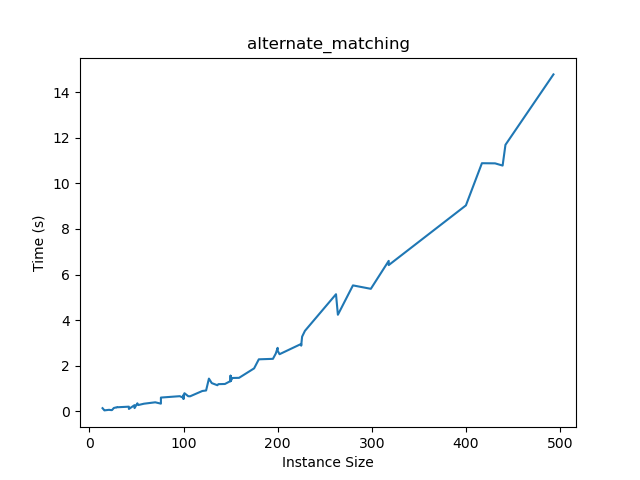
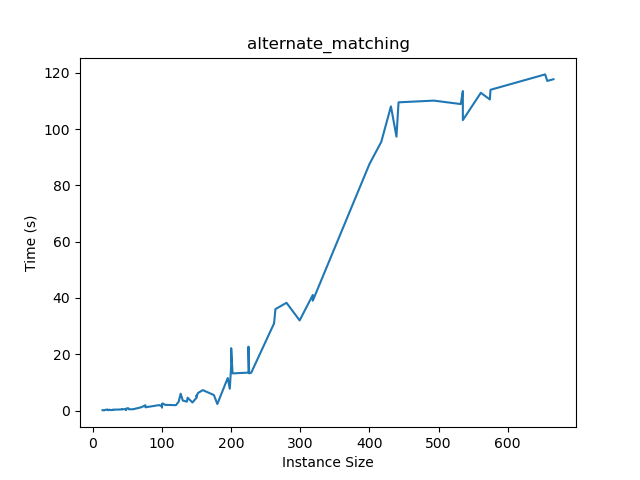
Fixed bugs in matching algo

diff --git a/tsp_solvers.py b/tsp_solvers.py
@@ -5,28 +5,31 @@ from pyomo.environ import *
 from pyomo.environ import *
 import random
 import time
+TMAX = 300
 class Tsp:
     def __init__(self, A):
         self.base = "greedy"  # "random" or "greedy"
         self.numHeuristics = 2 # 1 or 2
-
+        self.sol = []
+        self.cost = 0
         self.adj = A.T.tolist()
-        self.extra = 0
+        self.origN = len(self.adj)
+        self.extra = 6 - len(self.adj) % 6
+        if self.extra == 6:
+            self.extra = 0
         self.extraEdge = 1 + A.max()
         self.n = len(self.adj)
         # print(self.adj)
-        while self.n % 6:
-            self.extra += 1
-            self.adj.append([self.extraEdge for _ in range(self.n)])
-            self.n += 1
-            # print(self.adj)
-            for i in range(self.n - 1):
-                # print(self.adj[i])
-                self.adj[i].append(self.extraEdge)
-            self.adj[-1].append(0)
+        for _ in range(self.extra):
+            self.adj.append([self.extraEdge for _ in range(self.n - 1)])
+            self.adj[-1] += [0 for _ in range(self.extra + 1)]
+        for i in range(self.n - 1):
+            self.adj[i] += [self.extraEdge for _ in range(self.extra)]
+        self.adj[self.n - 1] += [0 for _ in range(self.extra)]
+        self.n += self.extra
 
-        self.sol = []
-        self.cost = 0
+
+        
 
     # def __init__(self, file):
     #     self.base = "greedy"  # "random" or "greedy"
@@ -229,36 +232,35 @@ class Tsp:
             self.cost += self.adj[self.sol[i]][self.sol[i+1]]
         self.cost += self.adj[self.sol[-1]][self.sol[0]]
 
-    def validate(self):
-        x = self.sol
-        x.sort()
-        if x != [t for t in range(self.n)]:
-            print(x)
-            print([t for t in range(self.n)])
-            return False
-        return True
 
     def getActualCost(self):
-        if self.extra == 0:
-            return
-        self.cost -= self.extraEdge
-        origN = self.n - self.extra
-        idx = self.sol.index(origN-1)
-        idx1, idx2 = idx, idx
-        while(self.sol[idx1] >= origN - 1):
-            idx1 -= 1
-            if idx1 < 0:
-                idx1 = self.n - 1
         
-        while(self.sol[idx2] >= origN - 1):
-            idx2 += 1
-            if idx2 == self.n:
-                idx2 = 0
+       
+        sol = [x for x in self.sol if x < self.origN]
+        self.cost = 0
+        for i in range(len(sol)):
+            self.cost += self.adj[sol[i]][sol[(i+1)%len(sol)]]
+        sol.sort()
+        if sol != [x for x in range(self.origN)]:
+            print("ERROR!!!!")
+        # self.cost -= self.extraEdge
+        # origN = self.n - self.extra
+        # idx = self.sol.index(origN-1)
+        # idx1, idx2 = idx, idx
+        # while(self.sol[idx1] >= origN - 1):
+        #     idx1 -= 1
+        #     if idx1 < 0:
+        #         idx1 = self.n - 1
         
-        if((idx1 + 1)% self.n == idx):
-            self.cost += self.adj[self.sol[idx]][self.sol[idx2]]
-        else:
-            self.cost += self.adj[self.sol[idx1]][self.sol[idx]]
+        # while(self.sol[idx2] >= origN - 1):
+        #     idx2 += 1
+        #     if idx2 == self.n:
+        #         idx2 = 0
+        
+        # if((idx1 + 1)% self.n == idx):
+        #     self.cost += self.adj[self.sol[idx]][self.sol[idx2]]
+        # else:
+        #     self.cost += self.adj[self.sol[idx1]][self.sol[idx]]
 
 
 
@@ -267,10 +269,10 @@ class Tsp:
         self.getBaseSolution()
         prevCost = self.cost
         self.reduceSolution()
-        
+        tStart = time.time()
         while True:
-            if not self.validate():
-                print("ERROR")
+            if time.time() - tStart > TMAX:
+                break
                 
             self.reduceSolution2()
             if self.numHeuristics == 2:
@@ -289,8 +291,6 @@ class Tsp:
             self.getBaseSolution()
         else:
             self.getCorrectSolution()
-        if not self.validate():
-            print("ERROR")
         self.getActualCost()
         return self.cost
     
@@ -505,13 +505,16 @@ def lk_tsp(dist_matrix):
     tour = nearest_neighbor(dist_matrix)
     best_tour = tour
     best_cost = tour_cost(tour, dist_matrix)
+    tStart = time.time()
     improve = True
     while improve:
+        if time.time() - tStart > TMAX:
+            break
         improve = False
         for i in range(n - 1):
             for j in range(i + 1, n):
                 # Get the candidate edges
-                a, b, c, d = candidate_edges(tour, i, j)
+                a, b, c, d = candidate_edges(tour, i, j, dist_matrix)
                 if c < 0:
                     continue
                 # Perform the Lin-Kernighan move
@@ -537,16 +540,19 @@ def nearest_neighbor(dist_matrix):
 
 def tour_cost(tour, dist_matrix):
     cost = 0
-    for i in range(len(tour) - 1):
-        cost += dist_matrix[tour[i]][tour[i+1]]
+    for i in range(len(tour)):
+        cost += dist_matrix[tour[i]][tour[(i+1)%len(tour)]]
     return cost
 
-def candidate_edges(tour, i, j):
+def candidate_edges(tour, i, j, dist_matrix):
     a, b = tour[i], tour[i+1]
     c, d = tour[j], tour[(j+1)%len(tour)]
     e, f = tour[(i-1)%len(tour)], tour[(j+1)%len(tour)]
     gain = dist_matrix[e][c] + dist_matrix[f][b] - dist_matrix[e][b] - dist_matrix[f][c]
-    return a, c, d, b if gain > 0 else c, d, a, f
+    if gain > 0:
+        return a,c,d,b 
+    return c,d,a,f
+    # return (a, c, d, b if gain > 0 else c, d, a, f)
 
 def lin_kernighan(tour, a, b, c, d):
     if b < c:

diff --git a/testbed.py b/testbed.py
@@ -9,6 +9,8 @@ import os
 import json
 import time
 
+MAXSIZE = 700
+MAXTIME = 500
 class TestBed:
     def __init__(self, tc_folder):
         self.max_subprocess = os.cpu_count()
@@ -19,7 +21,7 @@ class TestBed:
         self.problems = list(self.solution.keys())
         self.problem_size = { prob : len(list(tsplib95.load(os.path.join(tc_folder, f'{prob}.tsp')).get_nodes()))
                          for prob in self.problems }
-        self.problems = [ prob for prob in self.problems if self.problem_size[prob] <= 500 ]
+        self.problems = [ prob for prob in self.problems if self.problem_size[prob] <= MAXSIZE ]
         self.adj_mtx = { prob : nx.to_numpy_array(tsplib95.load(os.path.join(tc_folder, f'{prob}.tsp')).get_graph())
                     for prob in tqdm(self.problems, desc='Loading testcases') }
     
@@ -29,7 +31,7 @@ class TestBed:
             raise Exception("TIMEOUT")
         signal.signal(signal.SIGALRM, handler)
         start = time.perf_counter_ns()  
-        signal.alarm(600)
+        signal.alarm(MAXTIME)
         try:
             output = solver(instance)
         except Exception as e:
@@ -81,3 +83,6 @@ class TestBed:
         plt.xlabel('Instance Size')
         plt.ylabel('Time (s)')
         plt.savefig(f'{tsp_solver.__name__}_perf.png')
+
+        with open(f'{tsp_solver.__name__}_optim.json', 'w') as f:
+            json.dump({'sizes' : sizes, 'optim_res' : optim_res, 'perf_res':perf_res}, f)

diff --git a/main.py b/main.py
@@ -1,8 +1,26 @@
 from testbed import TestBed
-from tsp_solvers import one_shot_exact, iterative_exact, alternate_matching, Tsp
+from tsp_solvers import one_shot_exact, iterative_exact, alternate_matching, Tsp, lk_tsp
+import numpy as np
 
 if __name__ == "__main__":
     testbed = TestBed('testcases')
+    # testbed.test(iterative_exact)
     testbed.test(alternate_matching)
+    # testbed.test(lk_tsp)
+    # testbed.test(lk_tsp)
     # t = Tsp('./tc5.txt')
     # t.getHeuristicSolution()
+    # adj = np.asarray(
+    #     [
+    #     [0 ,2,3,4,5,8,11],
+    #     [2,0,6,7,8,5,7],
+    #     [3,6,0,9,10,7,5],
+    #     [4,7,9,0,11,5,7],
+    #     [5,8,10,11,0,7,5],
+    #     [8,5,7,5,7,0,2],
+    #     [11,7,5,7,5,2,0]
+    #     ]
+    # )
+    # alternate_matching(adj)
+    # lk_tsp(adj)
+
